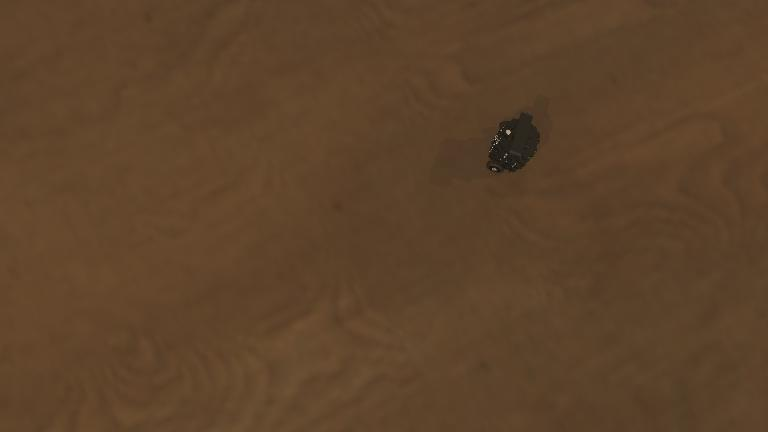
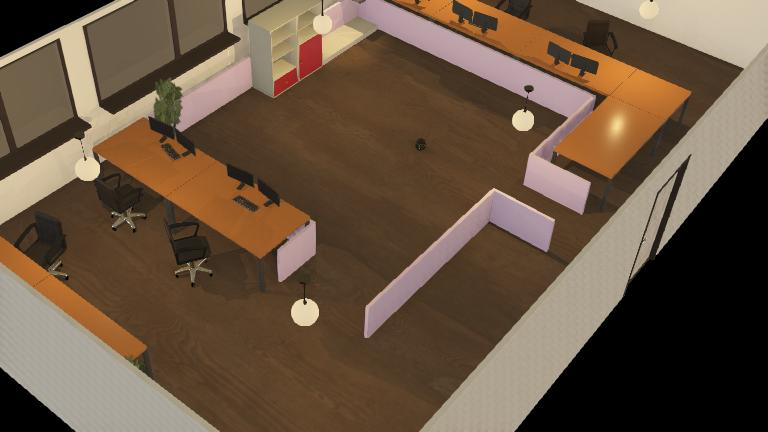
updated readme and other instructions

diff --git a/src/hybrid_assignment/hybrid_assignment/task1_behaviours.py b/src/hybrid_assignment/hybrid_assignment/task1_behaviours.py
@@ -60,21 +60,23 @@ class IsObstacleTooClose(py_trees.behaviour.Behaviour):
 
     def update(self):
         # ------------------------------------------------------------------
-        # TODO 1a — implement the obstacle check.
+        # Step 1a — implement the obstacle check.
         #
         # Step 1: Guard — if no scan has arrived yet, return FAILURE so the
         #         robot does not falsely stop on startup.
         #
-        # Step 2: Compute how many indices cover FORWARD_ARC_DEG degrees:
-        #             total = len(self.latest_scan.ranges)
-        #             arc   = int(FORWARD_ARC_DEG / 360 * total)
+        # Step 2: Convert the arc half-width to radians:
+        #             half_arc = math.radians(FORWARD_ARC_DEG)
         #
-        # Step 3: Combine the front-left and front-right index ranges:
-        #             indices = list(range(arc)) + list(range(total - arc, total))
+        # Step 3: Loop over every reading and work out its direction:
+        #             scan = self.latest_scan
+        #             for i, r in enumerate(scan.ranges):
+        #                 angle = scan.angle_min + i * scan.angle_increment
+        #                 angle = math.atan2(math.sin(angle), math.cos(angle))
+        #         The atan2 line wraps the angle into -pi … +pi, so 0 rad is
+        #         straight ahead. Skip readings with abs(angle) > half_arc.
         #
-        # Step 4: For each index check the range value:
-        #             r = self.latest_scan.ranges[i]
-        #         Skip readings that are inf (open space) or <= 0 (invalid).
+        # Step 4: Skip readings that are inf (open space) or <= 0 (invalid).
         #         If r < OBSTACLE_THRESHOLD → return Status.SUCCESS immediately.
         #
         # Step 5: If the loop finishes without finding anything close,

diff --git a/README.md b/README.md
@@ -144,15 +144,20 @@ interrupts it.
  
 This is a **Condition** node. It reads the latest LiDAR scan and checks
 whether anything in the forward arc is closer than `OBSTACLE_THRESHOLD`.
+
+#### note: you can view the lidar point cloud from View -> Optional Rendering -> Show Lidar Point Cloud
  
 - Return `SUCCESS` if an obstacle is detected.
 - Return `FAILURE` if the path is clear.
 Hints:
 - `self.latest_scan` is `None` until the first scan arrives — guard against
   this or the node crashes on the first tick.
-- `self.latest_scan.ranges` is a list of float distances, one per degree.
-  Index 0 is directly in front of the robot.
+- `self.latest_scan.ranges` holds 360 distances, one per degree. Do not
+  assume which index points forward — in this simulation index 0 points
+  *behind* the robot. Each reading's direction in radians is
+  `angle_min + i * angle_increment`; wrap it to −π…π and 0 is straight ahead.
 - Readings of `inf` mean no obstacle in that direction — skip them.
+- Only check readings whose angle is within ±`FORWARD_ARC_DEG` of straight ahead.
 - Check the front-left arc (indices `0 … arc-1`) and the front-right arc
   (indices `total-arc … total-1`) to cover the full forward cone.
 - Use the constants `FORWARD_ARC_DEG` and `OBSTACLE_THRESHOLD` at the top
@@ -225,7 +230,8 @@ Common problems and fixes:
 | `AttributeError: module 'py_trees.composites' has no attribute 'Fallback'` | Use `Selector` instead — see version note |
 | `TypeError: __init__() missing keyword argument 'memory'` | Add `memory=False` to every composite |
 | Robot never moves | `IsObstacleTooClose` always returns `SUCCESS` — check the `inf` guard and arc logic |
-| Robot drives into walls | `IsObstacleTooClose` always returns `FAILURE` — check that the arc indices wrap correctly |
+| Robot drives into walls | `IsObstacleTooClose` always returns `FAILURE` — check that you compute each reading's angle from `angle_min` and `angle_increment` |
+| Robot spins when something is behind it | You are treating index 0 as straight ahead — use the angle instead |
 | `AttributeError: 'NoneType'` on first tick | Guard against `self.latest_scan is None` at the start of `update()` |
  
 ---
